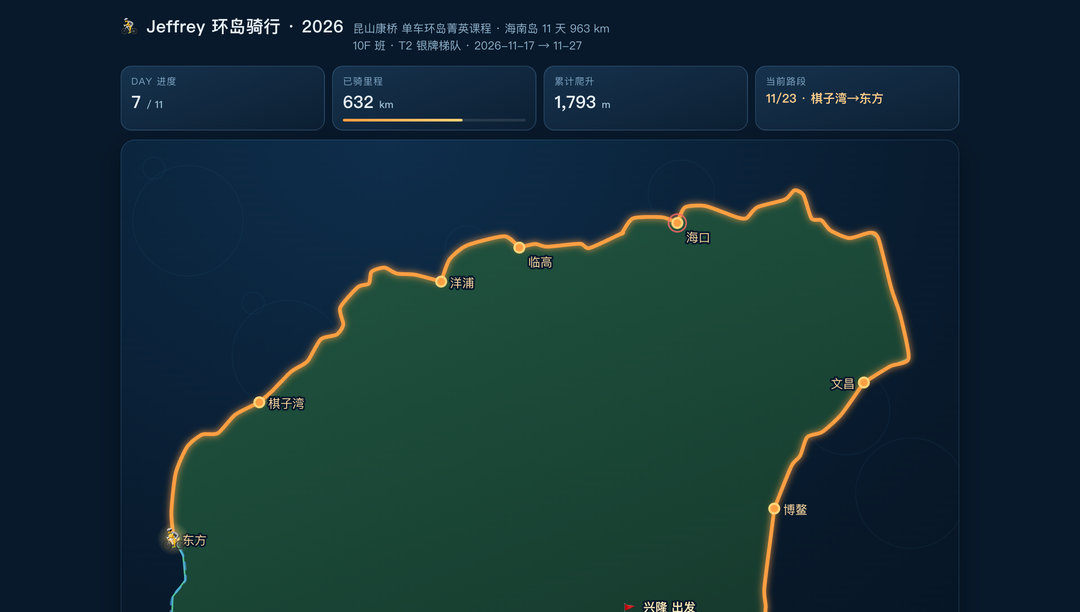
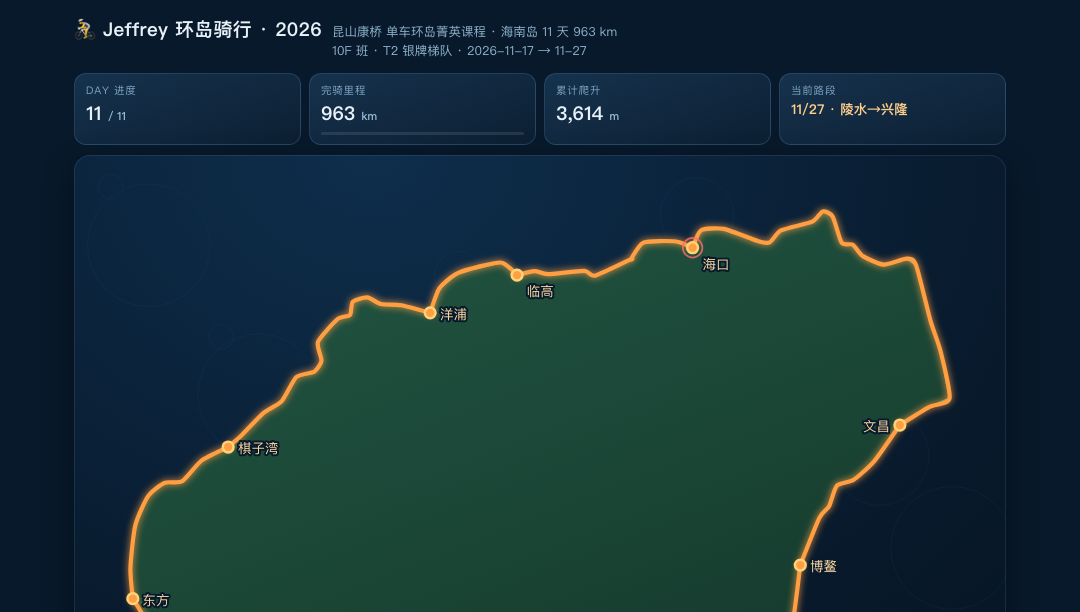
完结版：11 天全部完骑，963 km / 3,614 m，撤掉待骑 4 天与 632 km 进度

diff --git a/index.html b/index.html
@@ -3,10 +3,10 @@
 <head>
 <meta charset="utf-8">
 <meta name="viewport" content="width=device-width, initial-scale=1">
-<title>Jeffrey 环岛骑行 · 2026</title>
+<title>Jeffrey 环岛骑行 · 2026 · 完骑 963 km</title>
 <meta name="robots" content="noindex,nofollow,noarchive">
 <meta property="og:title" content="Jeffrey 环岛骑行 · 2026">
-<meta property="og:description" content="海南岛 11 天 963 km · 已骑完 7 天 632 km">
+<meta property="og:description" content="海南岛 11 天 963 km · 全程完骑 11/11">
 <meta property="og:image" content="https://wenhuazhou88-web.github.io/hainan-bike-ride-2026/preview.png">
 <meta property="og:type" content="website">
 <meta name="twitter:card" content="summary_large_image">
@@ -108,20 +108,20 @@
   <div class="stats">
     <div class="stat">
       <div class="k">DAY 进度</div>
-      <div class="v" id="hDay">7 <small>/ 11</small></div>
+      <div class="v" id="hDay">11 <small>/ 11</small></div>
     </div>
     <div class="stat">
-      <div class="k">已骑里程</div>
-      <div class="v" id="hKm">632 <small>km</small></div>
+      <div class="k">完骑里程</div>
+      <div class="v" id="hKm">963 <small>km</small></div>
       <div class="bar"><i id="hBar"></i></div>
     </div>
     <div class="stat">
       <div class="k">累计爬升</div>
-      <div class="v" id="hClimb">1,793 <small>m</small></div>
+      <div class="v" id="hClimb">3,614 <small>m</small></div>
     </div>
     <div class="stat wide">
       <div class="k">当前路段</div>
-      <div class="v" id="hSeg">11/22 · 洋浦→棋子湾</div>
+      <div class="v" id="hSeg">🎉 全程 963 km 完骑</div>
     </div>
   </div>
 
@@ -158,11 +158,10 @@
   <div class="ctrl">
     <button class="primary" id="btnPlay">▶ 看全程动画</button>
     <button id="btnNext">下一步 →</button>
-    <button id="btnReset">⟲ 回到今天</button>
+    <button id="btnReset">⟲ 回到终点</button>
     <div class="legend">
-      <span><i class="dot done"></i>已骑完 7 天</span>
-      <span><i class="dot todo"></i>待骑 4 天</span>
-      <span><i class="dot ring"></i>爬坡日</span>
+      <span><i class="dot done"></i>11 天全部完骑</span>
+      <span><i class="dot ring"></i>3 个爬坡日</span>
     </div>
   </div>
 
@@ -176,12 +175,12 @@
 
   <div class="foot">
     站点按各市县行政区驻地近似定位，路线沿海南岛海岸线绘制；里程 / 爬升 / 路况取自学校看板骑行手册（计划 v3-2026-11-12）。<br>
-    数据截至 2026-11-22 DAY 6 收队：全队累计完骑率 96.1%，10F 班 11/21 拿下 T2 梯队每日生活竞赛冠军。
+    数据截至 2026-11-27 收队：Jeffrey 11/11 完骑、准时报到 10/11；全队 203 人累计骑行 18.4 万公里，约等于绕地球 4.6 圈。
   </div>
 </div>
 
 <script>
-const DATA = {"size":[760.0,667.9],"ring":[[454.15,84.97],[424.83,98.36],[416.1,94.45],[386.42,97.14],[375.45,94.63],[361.28,97.95],[347.97,87.66],[313.78,95.97],[297.97,108.73],[290.44,128.74],[266.77,122.49],[250.29,121.5],[239.12,116.06],[227.4,119.7],[224.98,130.49],[215.0,133.73],[198.99,152.3],[201.78,167.69],[195.9,176.73],[181.36,181.05],[169.22,200.95],[154.35,210.45],[136.92,228.25],[125.7,238.12],[103.98,249.25],[88.17,266.07],[73.76,267.37],[60.46,278.15],[49.94,302.29],[46.0,337.37],[47.95,361.81],[56.6,376.86],[58.59,399.23],[47.22,414.21],[46.57,432.08],[64.5,458.47],[65.68,470.87],[59.47,501.68],[60.51,524.07],[64.1,530.92],[78.02,536.22],[96.0,536.81],[124.15,544.07],[137.92,567.25],[144.4,575.19],[157.92,570.75],[185.3,570.52],[193.48,586.5],[203.18,588.68],[233.73,587.31],[251.98,601.57],[275.0,606.07],[280.89,612.33],[298.17,614.65],[307.42,621.92],[327.94,613.92],[351.71,612.15],[358.09,607.75],[367.12,566.62],[373.05,563.76],[403.83,555.77],[425.4,560.26],[444.53,555.59],[449.84,549.01],[456.87,518.4],[483.08,497.83],[491.78,489.04],[514.18,479.66],[524.45,482.6],[558.86,477.53],[560.34,448.23],[581.11,439.14],[584.52,423.61],[583.25,406.88],[589.91,353.67],[592.26,334.39],[607.72,296.11],[615.75,286.45],[622.08,269.72],[635.82,264.89],[652.78,249.38],[673.45,220.18],[697.19,205.55],[714.0,198.43],[706.64,160.04],[698.46,135.26],[686.59,89.73],[678.89,84.47],[660.18,89.33],[643.28,82.45],[635.1,73.16],[626.02,71.54],[618.64,50.22],[610.51,46.0],[602.06,54.3],[576.89,61.35],[567.29,71.18],[558.79,70.6],[529.79,60.27],[511.23,61.53],[504.45,75.63],[490.96,70.51],[464.35,71.41],[454.15,84.97]],"start":[530.2,435.8],"stops":[{"day":"11/17","route":"兴隆→博鳌","km":98,"climb":257,"lvl":"缓路","label":"博鳌","x":551.2,"y":307.6,"idx":75,"done":true},{"day":"11/18","route":"博鳌→文昌","km":104,"climb":281,"lvl":"缓路","label":"文昌","x":628.5,"y":203.0,"idx":81,"done":true},{"day":"11/19","route":"文昌→海口","km":76,"climb":463,"lvl":"爬坡日","label":"海口","x":514.7,"y":83.5,"idx":100,"done":true},{"day":"11/20","route":"海口→临高","km":101,"climb":334,"lvl":"起伏路","label":"临高","x":341.3,"y":118.8,"idx":5,"done":true},{"day":"11/21","route":"临高→洋浦","km":110,"climb":213,"lvl":"缓路","label":"洋浦","x":311.5,"y":230.2,"idx":9,"done":true},{"day":"11/22","route":"洋浦→棋子湾","km":83,"climb":115,"lvl":"缓路","label":"棋子湾","x":170.5,"y":303.3,"idx":23,"done":true},{"day":"11/23","route":"棋子湾→东方","km":60,"climb":130,"lvl":"缓路","label":"东方","x":62.9,"y":348.7,"idx":30,"done":true},{"day":"11/24","route":"东方→乐东","km":98,"climb":776,"lvl":"爬坡日","label":"乐东","x":203.4,"y":449.7,"idx":46,"done":false},{"day":"11/25","route":"乐东→三亚","km":73,"climb":467,"lvl":"爬坡日","label":"三亚","x":293.0,"y":592.2,"idx":51,"done":false},{"day":"11/26","route":"三亚→陵水","km":72,"climb":223,"lvl":"起伏路","label":"陵水","x":435.5,"y":518.9,"idx":64,"done":false},{"day":"11/27","route":"陵水→兴隆","km":88,"climb":355,"lvl":"起伏路","label":"🏁 兴隆 终点","x":530.2,"y":435.8,"idx":70,"done":false}],"total_km":963,"total_climb":3614,"done_km":632,"done_climb":1793};
+const DATA = {"size":[760.0,667.9],"ring":[[454.15,84.97],[424.83,98.36],[416.1,94.45],[386.42,97.14],[375.45,94.63],[361.28,97.95],[347.97,87.66],[313.78,95.97],[297.97,108.73],[290.44,128.74],[266.77,122.49],[250.29,121.5],[239.12,116.06],[227.4,119.7],[224.98,130.49],[215.0,133.73],[198.99,152.3],[201.78,167.69],[195.9,176.73],[181.36,181.05],[169.22,200.95],[154.35,210.45],[136.92,228.25],[125.7,238.12],[103.98,249.25],[88.17,266.07],[73.76,267.37],[60.46,278.15],[49.94,302.29],[46.0,337.37],[47.95,361.81],[56.6,376.86],[58.59,399.23],[47.22,414.21],[46.57,432.08],[64.5,458.47],[65.68,470.87],[59.47,501.68],[60.51,524.07],[64.1,530.92],[78.02,536.22],[96.0,536.81],[124.15,544.07],[137.92,567.25],[144.4,575.19],[157.92,570.75],[185.3,570.52],[193.48,586.5],[203.18,588.68],[233.73,587.31],[251.98,601.57],[275.0,606.07],[280.89,612.33],[298.17,614.65],[307.42,621.92],[327.94,613.92],[351.71,612.15],[358.09,607.75],[367.12,566.62],[373.05,563.76],[403.83,555.77],[425.4,560.26],[444.53,555.59],[449.84,549.01],[456.87,518.4],[483.08,497.83],[491.78,489.04],[514.18,479.66],[524.45,482.6],[558.86,477.53],[560.34,448.23],[581.11,439.14],[584.52,423.61],[583.25,406.88],[589.91,353.67],[592.26,334.39],[607.72,296.11],[615.75,286.45],[622.08,269.72],[635.82,264.89],[652.78,249.38],[673.45,220.18],[697.19,205.55],[714.0,198.43],[706.64,160.04],[698.46,135.26],[686.59,89.73],[678.89,84.47],[660.18,89.33],[643.28,82.45],[635.1,73.16],[626.02,71.54],[618.64,50.22],[610.51,46.0],[602.06,54.3],[576.89,61.35],[567.29,71.18],[558.79,70.6],[529.79,60.27],[511.23,61.53],[504.45,75.63],[490.96,70.51],[464.35,71.41],[454.15,84.97]],"start":[530.2,435.8],"stops":[{"day":"11/17","route":"兴隆→博鳌","km":98,"climb":257,"lvl":"缓路","label":"博鳌","x":551.2,"y":307.6,"idx":75,"done":true},{"day":"11/18","route":"博鳌→文昌","km":104,"climb":281,"lvl":"缓路","label":"文昌","x":628.5,"y":203.0,"idx":81,"done":true},{"day":"11/19","route":"文昌→海口","km":76,"climb":463,"lvl":"爬坡日","label":"海口","x":514.7,"y":83.5,"idx":100,"done":true},{"day":"11/20","route":"海口→临高","km":101,"climb":334,"lvl":"起伏路","label":"临高","x":341.3,"y":118.8,"idx":5,"done":true},{"day":"11/21","route":"临高→洋浦","km":110,"climb":213,"lvl":"缓路","label":"洋浦","x":311.5,"y":230.2,"idx":9,"done":true},{"day":"11/22","route":"洋浦→棋子湾","km":83,"climb":115,"lvl":"缓路","label":"棋子湾","x":170.5,"y":303.3,"idx":23,"done":true},{"day":"11/23","route":"棋子湾→东方","km":60,"climb":130,"lvl":"缓路","label":"东方","x":62.9,"y":348.7,"idx":30,"done":true},{"day":"11/24","route":"东方→乐东","km":98,"climb":776,"lvl":"爬坡日","label":"乐东","x":203.4,"y":449.7,"idx":46,"done":true},{"day":"11/25","route":"乐东→三亚","km":73,"climb":467,"lvl":"爬坡日","label":"三亚","x":293.0,"y":592.2,"idx":51,"done":true},{"day":"11/26","route":"三亚→陵水","km":72,"climb":223,"lvl":"起伏路","label":"陵水","x":435.5,"y":518.9,"idx":64,"done":true},{"day":"11/27","route":"陵水→兴隆","km":88,"climb":355,"lvl":"起伏路","label":"🏁 兴隆 终点","x":530.2,"y":435.8,"idx":70,"done":true}],"total_km":963,"total_climb":3614,"done_km":963,"done_climb":3614};
 
 const NS = 'http://www.w3.org/2000/svg';
 const svg = document.getElementById('map');
@@ -298,7 +297,7 @@ const hDay = document.getElementById('hDay'), hKm = document.getElementById('hKm
 const TOTAL_KM = DATA.total_km, TOTAL_CLIMB = DATA.total_climb;
 const fmt = n => Math.round(n).toLocaleString('en-US');
 
-let playing = false, rafId = null, curDay = 6;
+let playing = false, rafId = null, curDay = 10;
 
 function placeRider(x, y) {
   riderIcon.setAttribute('x', x); riderIcon.setAttribute('y', y);
@@ -381,7 +380,7 @@ document.getElementById('btnNext').addEventListener('click', () => {
 });
 document.getElementById('btnReset').addEventListener('click', () => {
   if (playing) stopPlay();
-  paint(7);
+  paint(11);
 });
 
 /* ---------- 逐日明细 ---------- */
@@ -410,11 +409,11 @@ document.getElementById('btnReset').addEventListener('click', () => {
   t.innerHTML = '<div class="d">合计</div>' +
     '<div class="r">11 天环岛全程<small>3 个爬坡日 · 11/17 → 11/27</small></div>' +
     '<div class="num"><b>' + DATA.total_km + '</b> km · <b>' + fmt(DATA.total_climb) + '</b> m' +
-    '<small>已完成 ' + DATA.done_km + ' km</small></div>';
+    '<small>全部完骑 · 11/11</small></div>';
   box.appendChild(t);
 })();
 
-paint(7);   // 默认：11/23 收队（632 km）
+paint(11);   // 完结：11/27 收队，963 km 全程完骑
 </script>
 </body>
 </html>
